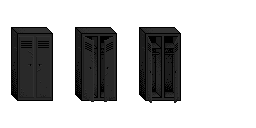
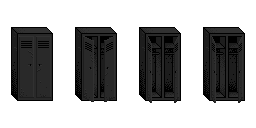
improved switches

Changed region(s): [[0.7812, 0.1875, 0.9688, 0.8125]]

diff --git a/ztg/src/Switch.js b/ztg/src/Switch.js
@@ -1,24 +1,37 @@
 var Switch = Class.create(Entity, {
 	onCreate: function (attributes) {
 		this.layer = this.getValue(attributes.layer, 0.1);
+		this.speed = this.getValue(attributes.speed, 100);
 	},
 	onStep: function (camera) {
 		if (typeof(this.opened) != 'undefined') {
-			var now = new Date().getTime();
-			if (now - this.opened > 100) {
+			var step = Math.round((new Date().getTime() - this.opened) / this.speed);
+			if (step < this.frames) {
+				this.framex = step;
+			} else {
+				this.framex = this.frames - 1;
+			}
+			
+			/*if (now - this.opened > 100) {
 				this.framex = 1;
 			}
 			if (now - this.opened > 200) {
 				this.framex = 2;
-			}
+			}*/
 		} else if (typeof(this.closed) != 'undefined') {
-			var now = new Date().getTime();
-			if (now - this.closed > 100) {
+			var step = Math.round((new Date().getTime() - this.closed) / this.speed);
+			if (step < this.frames) {
+				this.framex = this.frames - step - 1;
+			} else {
+				this.framex = 0;
+			}
+			//this.framex = this.frames-(((now - this.opened)/100)%this.frames);
+			/*if (now - this.closed > 100) {
 				this.framex = 1;
 			}
 			if (now - this.closed > 200) {
 				this.framex = 0;
-			}
+			}*/
 		}
 	},
 	onAction: function () {
